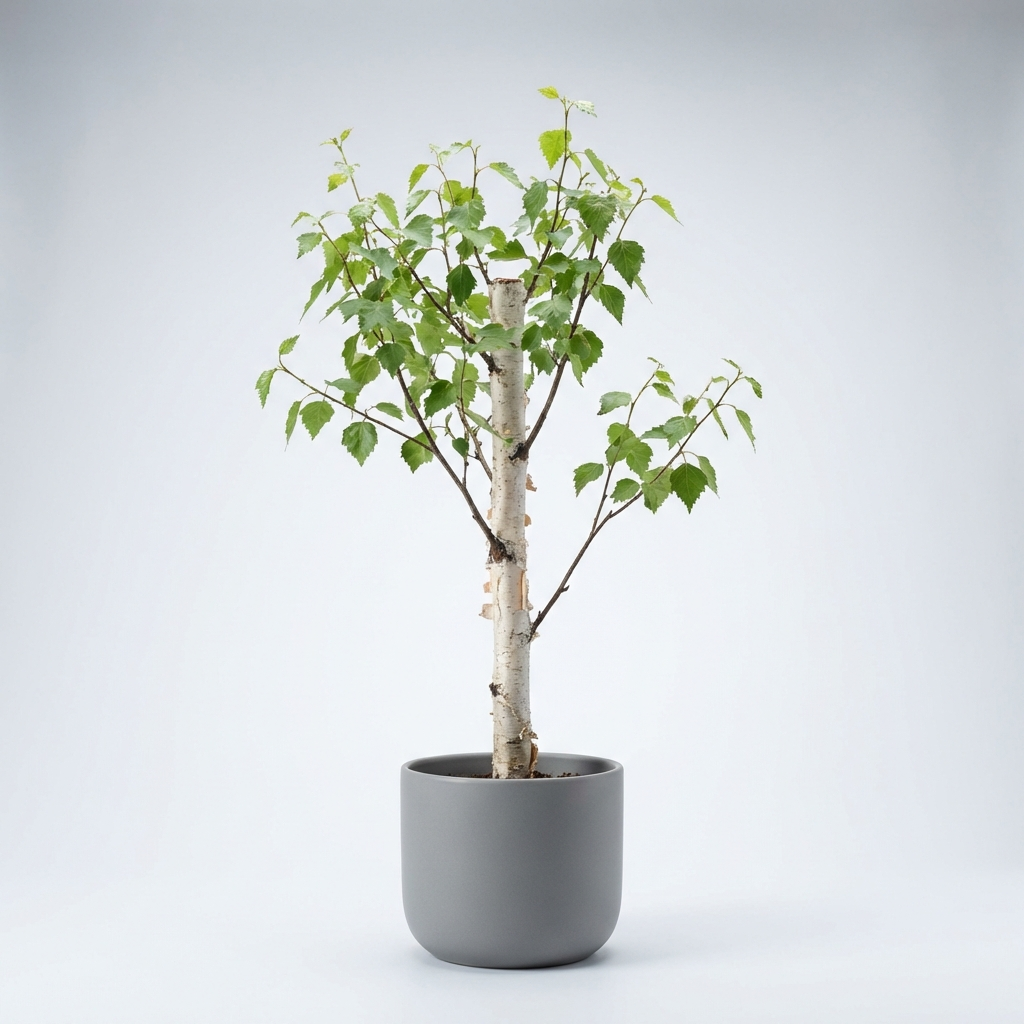
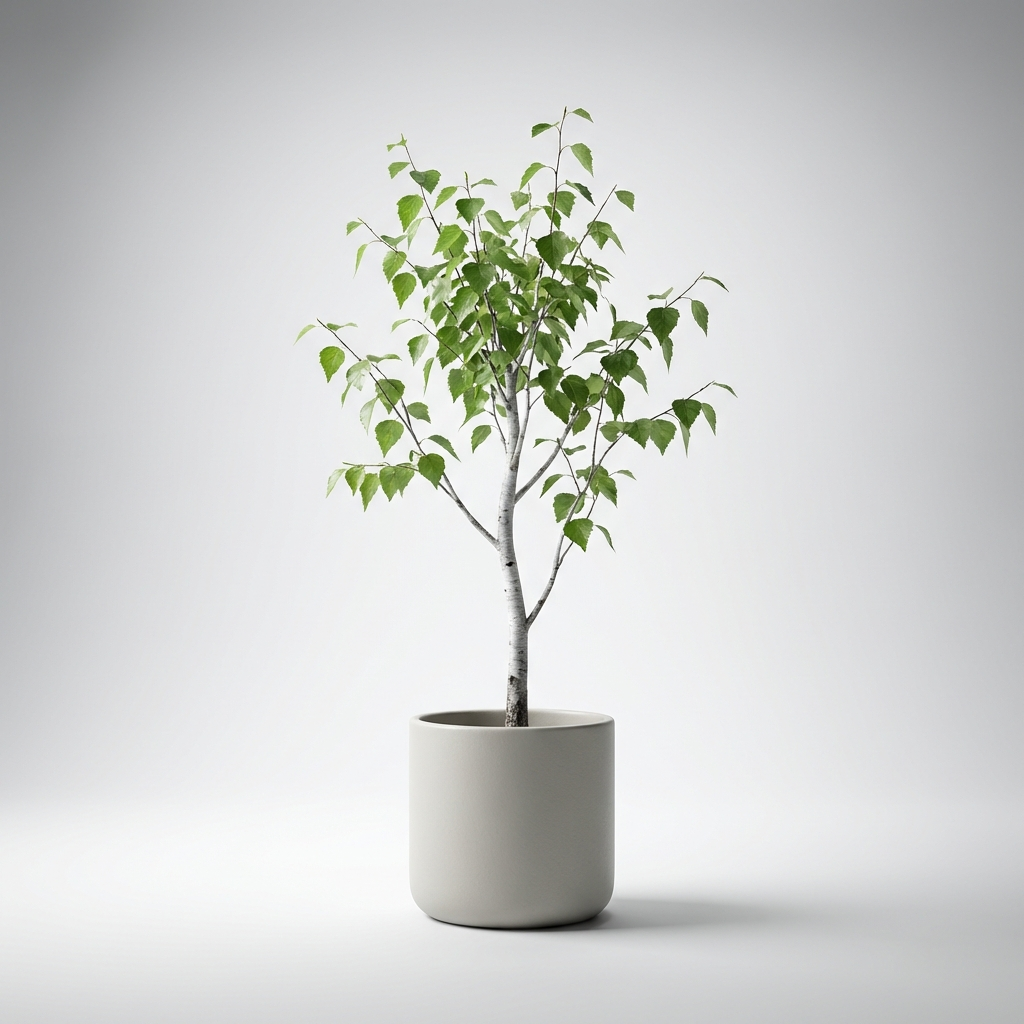
Add generated product images (Shrubs & Ground Covers)

diff --git a/plant_data.js b/plant_data.js
@@ -334,7 +334,7 @@ const plantCatalog = [
         env: 'Tam güneş',
         water: 'Düzenli',
         price: 'Bize Ulaşın',
-        image: 'assets/products/placeholder.png',
+        image: 'assets/products/hus-1.png',
         difficulty: 'Orta',
         humidity: 'Normal',
         petFriendly: true,
@@ -516,7 +516,7 @@ const plantCatalog = [
         env: 'Güneş / Yarı gölge',
         water: 'Orta',
         price: 'Bize Ulaşın',
-        image: 'assets/products/placeholder.png',
+        image: 'assets/products/abelya-1.png',
         difficulty: 'Kolay',
         humidity: 'Normal',
         petFriendly: true,
@@ -536,7 +536,7 @@ const plantCatalog = [
         env: 'Güneş',
         water: 'Düzenli',
         price: 'Bize Ulaşın',
-        image: 'assets/products/placeholder.png',
+        image: 'assets/products/yasemin-1.png',
         difficulty: 'Kolay',
         humidity: 'Normal',
         petFriendly: true,
@@ -556,7 +556,7 @@ const plantCatalog = [
         env: 'Tam güneş',
         water: 'Düzenli',
         price: 'Bize Ulaşın',
-        image: 'assets/products/placeholder.png',
+        image: 'assets/products/gul-1.png',
         difficulty: 'Orta',
         humidity: 'Normal',
         petFriendly: false,
@@ -576,7 +576,7 @@ const plantCatalog = [
         env: 'Güneş / Yarı gölge',
         water: 'Az',
         price: 'Bize Ulaşın',
-        image: 'assets/products/placeholder.png',
+        image: 'assets/products/ates-dikeni-1.png',
         difficulty: 'Kolay',
         humidity: 'Normal',
         petFriendly: false,
@@ -596,7 +596,7 @@ const plantCatalog = [
         env: 'Tam güneş',
         water: 'Düzenli',
         price: 'Bize Ulaşın',
-        image: 'assets/products/placeholder.png',
+        image: 'assets/products/hanagaci-1.png',
         difficulty: 'Kolay',
         humidity: 'Normal',
         petFriendly: true,
@@ -616,7 +616,7 @@ const plantCatalog = [
         env: 'Tam güneş',
         water: 'Az',
         price: 'Bize Ulaşın',
-        image: 'assets/products/placeholder.png',
+        image: 'assets/products/begonvil-1.png',
         difficulty: 'Orta',
         humidity: 'Normal',
         petFriendly: false,
@@ -636,7 +636,7 @@ const plantCatalog = [
         env: 'Gölge / Yarı gölge',
         water: 'Orta',
         price: 'Bize Ulaşın',
-        image: 'assets/products/placeholder.png',
+        image: 'assets/products/mahonya-1.png',
         difficulty: 'Kolay',
         humidity: 'Normal',
         petFriendly: false,
@@ -656,7 +656,7 @@ const plantCatalog = [
         env: 'Güneş / Gölge',
         water: 'Orta',
         price: 'Bize Ulaşın',
-        image: 'assets/products/placeholder.png',
+        image: 'assets/products/bodur-defne-1.png',
         difficulty: 'Kolay',
         humidity: 'Normal',
         petFriendly: true,
@@ -676,7 +676,7 @@ const plantCatalog = [
         env: 'Güneş',
         water: 'Orta',
         price: 'Bize Ulaşın',
-        image: 'assets/products/placeholder.png',
+        image: 'assets/products/altin-canak-1.png',
         difficulty: 'Kolay',
         humidity: 'Normal',
         petFriendly: true,
@@ -696,7 +696,7 @@ const plantCatalog = [
         env: 'Güneş',
         water: 'Orta',
         price: 'Bize Ulaşın',
-        image: 'assets/products/placeholder.png',
+        image: 'assets/products/leylak-1.png',
         difficulty: 'Kolay',
         humidity: 'Normal',
         petFriendly: true,
@@ -716,7 +716,7 @@ const plantCatalog = [
         env: 'Güneş / Yarı gölge',
         water: 'Az',
         price: 'Bize Ulaşın',
-        image: 'assets/products/placeholder.png',
+        image: 'assets/products/pitos-1.png',
         difficulty: 'Kolay',
         humidity: 'Normal',
         petFriendly: true,
@@ -736,7 +736,7 @@ const plantCatalog = [
         env: 'Tam güneş',
         water: 'Çok az',
         price: 'Bize Ulaşın',
-        image: 'assets/products/placeholder.png',
+        image: 'assets/products/ardic-1.png',
         difficulty: 'Çok Kolay',
         humidity: 'Düşük',
         petFriendly: true,
@@ -798,11 +798,11 @@ const plantCatalog = [
         env: 'Tam güneş',
         water: 'Az',
         price: 'Bize Ulaşın',
-        image: 'assets/products/placeholder.png',
-        difficulty: 'Kolay',
-        humidity: 'Düşük',
+        image: 'assets/products/acem-halisi-1.png',
+        difficulty: 'Orta',
+        humidity: 'Normal',
         petFriendly: true,
-        temp: '10-35°C'
+        temp: '-5-30°C'
     },
     {
         id: 'gazanya',
@@ -814,11 +814,11 @@ const plantCatalog = [
         <p><strong>Peyzajda Kullanımı:</strong><br>
         Bordürler, kaya bahçeleri ve saksılar için renkli bir seçimdir.</p>
         <p><strong>Bakım İpuçları:</strong><br>
-        Kuraklığa ve tuza dayanıklıdır. Güneşsiz yerde çiçek açmaz.</p>`,
+        Kuraklığa ve tuza dayanıklıdır. Güneşsiz yerde çiçek açar.</p>`,
         env: 'Tam güneş',
         water: 'Az',
         price: 'Bize Ulaşın',
-        image: 'assets/products/placeholder.png',
+        image: 'assets/products/gazanya-1.png',
         difficulty: 'Kolay',
         humidity: 'Düşük',
         petFriendly: true,
@@ -838,7 +838,7 @@ const plantCatalog = [
         env: 'Tam güneş',
         water: 'Çok az',
         price: 'Bize Ulaşın',
-        image: 'assets/products/placeholder.png',
+        image: 'assets/products/kedi-tirnagi-1.png',
         difficulty: 'Çok Kolay',
         humidity: 'Normal',
         petFriendly: true,
@@ -858,7 +858,7 @@ const plantCatalog = [
         env: 'Tam güneş',
         water: 'Az',
         price: 'Bize Ulaşın',
-        image: 'assets/products/placeholder.png',
+        image: 'assets/products/kekik-1.png',
         difficulty: 'Kolay',
         humidity: 'Düşük',
         petFriendly: true,
@@ -878,7 +878,7 @@ const plantCatalog = [
         env: 'Gölge / Yarı gölge',
         water: 'Düzenli',
         price: 'Bize Ulaşın',
-        image: 'assets/products/placeholder.png',
+        image: 'assets/products/fare-kulagi-1.png',
         difficulty: 'Orta',
         humidity: 'Yüksek',
         petFriendly: true,
@@ -898,7 +898,7 @@ const plantCatalog = [
         env: 'Güneş',
         water: 'Çok az',
         price: 'Bize Ulaşın',
-        image: 'assets/products/placeholder.png',
+        image: 'assets/products/sedum-1.png',
         difficulty: 'Çok Kolay',
         humidity: 'Düşük',
         petFriendly: true,
@@ -918,7 +918,7 @@ const plantCatalog = [
         env: 'Gölge / Yarı gölge',
         water: 'Orta',
         price: 'Bize Ulaşın',
-        image: 'assets/products/placeholder.png',
+        image: 'assets/products/hedera-1.png',
         difficulty: 'Kolay',
         humidity: 'Normal',
         petFriendly: false,
@@ -938,7 +938,7 @@ const plantCatalog = [
         env: 'Tam güneş',
         water: 'Az',
         price: 'Bize Ulaşın',
-        image: 'assets/products/placeholder.png',
+        image: 'assets/products/lippia-1.png',
         difficulty: 'Kolay',
         humidity: 'Düşük',
         petFriendly: true,
